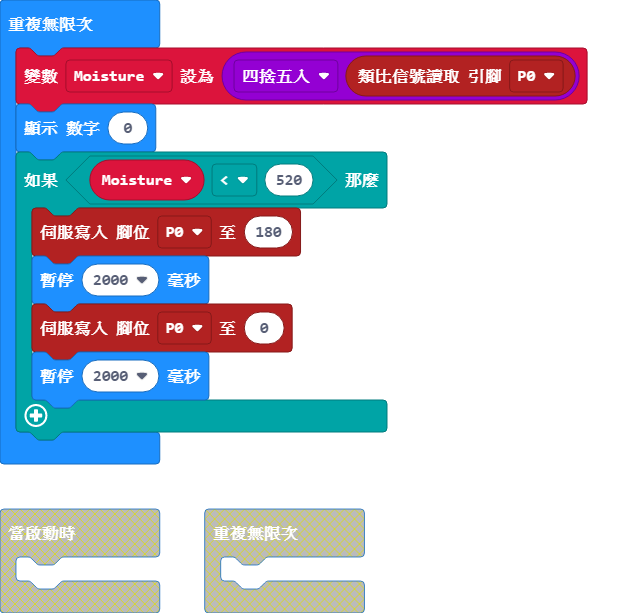
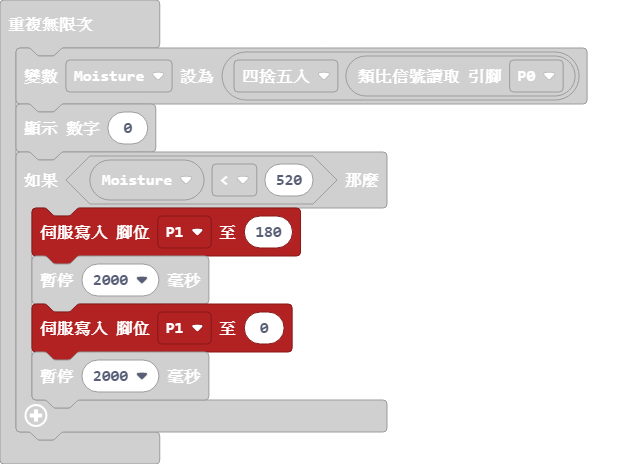
Update main.blocks, main.ts, automatic-farming-system.md

diff --git a/main.ts b/main.ts
@@ -3,9 +3,9 @@ basic.forever(function () {
     Moisture = Math.round(pins.analogReadPin(AnalogPin.P0))
     basic.showNumber(0)
     if (Moisture < 520) {
-        pins.servoWritePin(AnalogPin.P0, 180)
+        pins.servoWritePin(AnalogPin.P1, 180)
         basic.pause(2000)
-        pins.servoWritePin(AnalogPin.P0, 0)
+        pins.servoWritePin(AnalogPin.P1, 0)
         basic.pause(2000)
     }
 })

diff --git a/automatic-farming-system.md b/automatic-farming-system.md
@@ -54,15 +54,16 @@ basic.forever(function () {
 
 設定澆水器澆水時轉動的角度停留的時間
 
+```block
 let Moisture = 0
 basic.forever(function () {
     Moisture = Math.round(pins.analogReadPin(AnalogPin.P0))
     basic.showNumber(0)
     if (Moisture < 520) {
-        pins.servoWritePin(AnalogPin.P0, 180)
+        pins.servoWritePin(AnalogPin.P1, 180)
         basic.pause(2000)
-        pins.servoWritePin(AnalogPin.P0, 0)
+        pins.servoWritePin(AnalogPin.P1, 0)
         basic.pause(2000)
     }
 })
-
+```
